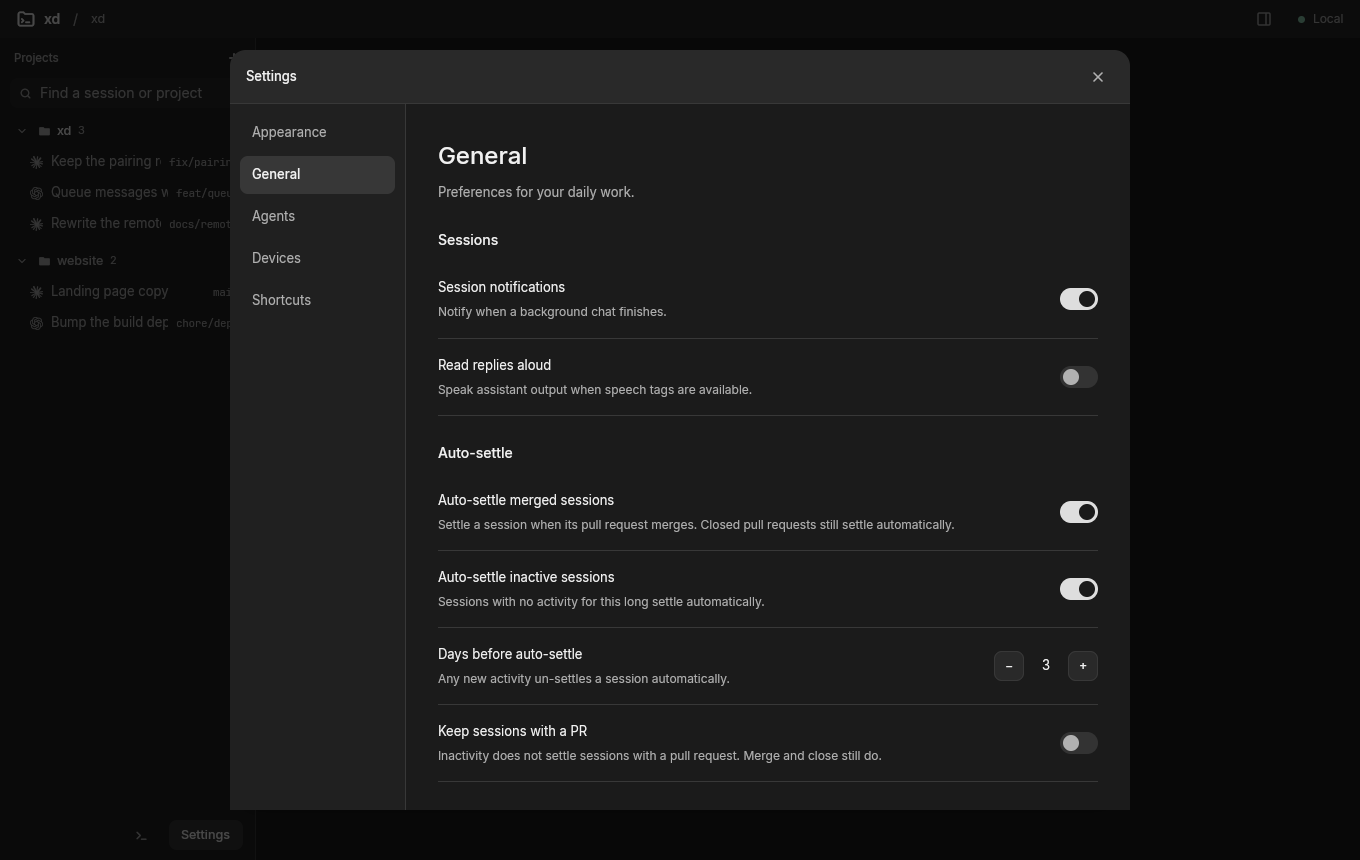
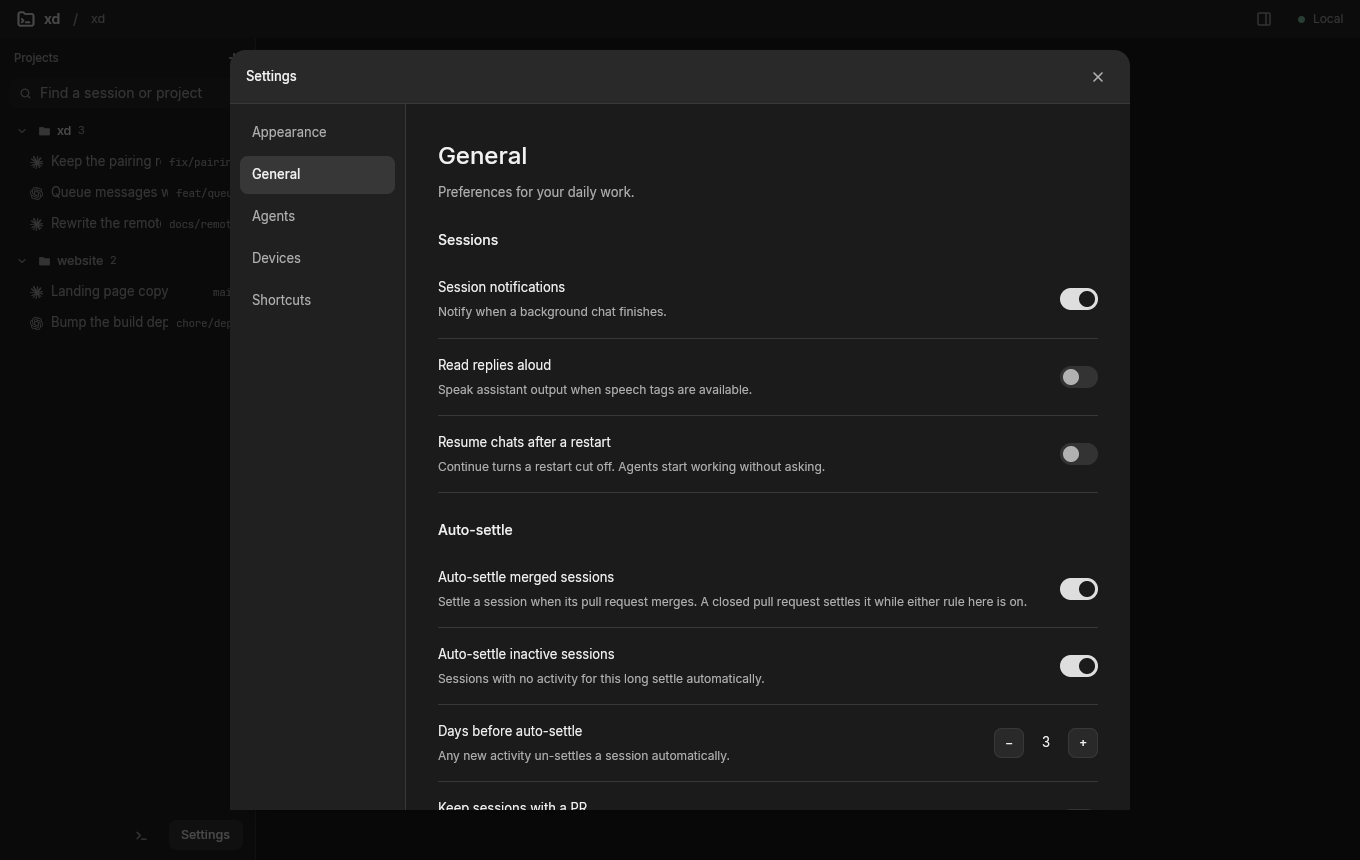
fix(host): judge a pull request by its branch and the user's own messages
The cached pull request was keyed by directory alone, so switching branches
could settle a session on the strength of the branch it left. A turn the host
resumed after a restart also counted as the user speaking, which made a pull
request that finished in the meantime stop counting.

With both rules off the host settles nothing, closed pull requests included, so
the setting's description now says so.

diff --git a/host/src/settlement.rs b/host/src/settlement.rs
@@ -35,7 +35,7 @@ pub struct AutoSettleSettings {
     /// Settle after this many days without activity; `None` turns that off.
     pub after_days: Option<i64>,
     /// Settle when the session's pull request merges. A closed pull request
-    /// settles the session either way.
+    /// settles the session either way, as long as any rule is on.
     pub on_merge: bool,
     /// Do not let inactivity settle a session that has a pull request.
     pub keep_pull_requests: bool,
@@ -221,7 +221,9 @@ impl AutoSettler {
     }
 }
 
-type PullRequestCache = HashMap<PathBuf, (Instant, Option<PullRequestSnapshot>)>;
+/// Answers by directory and branch: switching branches in a directory must not
+/// settle a session on the strength of the branch it left.
+type PullRequestCache = HashMap<(PathBuf, String), (Instant, Option<PullRequestSnapshot>)>;
 
 /// One pass of the rules. Returns how many sessions it settled.
 fn sweep(
@@ -274,12 +276,16 @@ fn pull_request_for(
     let Some(workdir) = &candidate.workdir else {
         return Some(None);
     };
-    if let Some((_, known)) = cache.get(workdir) {
+    let Some(branch) = store.checked_out_branch(workdir) else {
+        return Some(None);
+    };
+    let key = (workdir.clone(), branch);
+    if let Some((_, known)) = cache.get(&key) {
         return Some(*known);
     }
     match store.pull_request_snapshot(workdir) {
         Ok(pull_request) => {
-            cache.insert(workdir.clone(), (Instant::now(), pull_request));
+            cache.insert(key, (Instant::now(), pull_request));
             Some(pull_request)
         }
         Err(error) => {
@@ -860,9 +866,61 @@ mod tests {
                         0
                     );
                 }
-                let calls = std::fs::read_to_string(fixture.root.join("calls")).unwrap();
-                assert_eq!(calls.lines().count(), 1);
+                let calls = || {
+                    std::fs::read_to_string(fixture.root.join("calls"))
+                        .unwrap()
+                        .lines()
+                        .count()
+                };
+                assert_eq!(calls(), 1);
+
+                // Another branch in the same directory is another pull request.
+                let switched = std::process::Command::new("git")
+                    .args(["checkout", "-q", "-b", "other"])
+                    .current_dir(fixture.root.join("Workspaces/Project"))
+                    .status()
+                    .unwrap();
+                assert!(switched.success());
+                sweep(&fixture.store, &|_| false, &mut cache, now).unwrap();
+                assert_eq!(calls(), 2);
             },
+        );
+    }
+
+    #[test]
+    fn a_turn_the_host_resumes_is_not_the_user_coming_back() {
+        let fixture = Fixture::new();
+        fixture
+            .store
+            .prepare_send(&json!({"chat": fixture.chat, "text": "work"}))
+            .unwrap();
+        fixture.age(1);
+        fixture.sql("UPDATE chats SET host_working = 0");
+        let anchor = fixture.store.settlement_candidates().unwrap()[0].user_anchor_at;
+        let last_user_message: i64 = rusqlite::Connection::open(fixture.root.join("chats.db"))
+            .unwrap()
+            .query_row(
+                "SELECT MAX(id) FROM messages WHERE role = 'user'",
+                [],
+                |row| row.get(0),
+            )
+            .unwrap();
+        fixture
+            .store
+            .prepare_continuation(
+                &json!({"chat": fixture.chat, "text": "continue"}),
+                last_user_message,
+            )
+            .unwrap();
+        fixture.sql("UPDATE chats SET host_working = 0");
+        let candidate = fixture.store.settlement_candidates().unwrap().remove(0);
+        assert_eq!(
+            candidate.user_anchor_at, anchor,
+            "a pull request that finished meanwhile still counts"
+        );
+        assert!(
+            candidate.activity_at > anchor,
+            "but the turn is still activity, so inactivity counts from it"
         );
     }
 

diff --git a/host/src/storage.rs b/host/src/storage.rs
@@ -1581,6 +1581,18 @@ impl StateStore {
                 event,
             });
         }
+        // A continuation is the host's doing, not the user speaking again, so it
+        // keeps the time settling compares a finished pull request against.
+        let user_message_at = continues
+            .is_some()
+            .then(|| {
+                transaction.query_row(
+                    "SELECT last_user_message_at FROM chats WHERE id = ?",
+                    [chat_id],
+                    |row| row.get::<_, i64>(0),
+                )
+            })
+            .transpose()?;
         let turn = prepare_turn(
             &transaction,
             &self.workspace_root,
@@ -1588,6 +1600,12 @@ impl StateStore {
             &message.prompt,
             worktree_name,
         )?;
+        if let Some(user_message_at) = user_message_at {
+            transaction.execute(
+                "UPDATE chats SET last_user_message_at = ? WHERE id = ?",
+                params![user_message_at, chat_id],
+            )?;
+        }
         transaction.execute(
             if continues.is_some() {
                 "UPDATE chats SET host_working = 1, updated_at = ? WHERE id = ?"
@@ -3772,21 +3790,23 @@ impl StateStore {
         Ok(changed == 1)
     }
 
+    /// The branch checked out in `workdir`. `None` outside a repository and on
+    /// a detached HEAD, which cannot have a pull request of their own.
+    pub(crate) fn checked_out_branch(&self, workdir: &Path) -> Option<String> {
+        let current = normalize_existing_path(workdir);
+        list_git_worktrees(workdir)
+            .ok()?
+            .into_iter()
+            .find(|worktree| normalize_existing_path(&worktree.path) == current)?
+            .branch
+    }
+
     /// The pull request of the branch checked out in `workdir`, if it has one.
     /// An error means GitHub could not say, which is not the same as no.
     pub(crate) fn pull_request_snapshot(
         &self,
         workdir: &Path,
     ) -> Result<Option<PullRequestSnapshot>, StorageError> {
-        let Ok(worktrees) = list_git_worktrees(workdir) else {
-            return Ok(None);
-        };
-        let current = normalize_existing_path(workdir);
-        if !worktrees.iter().any(|worktree| {
-            normalize_existing_path(&worktree.path) == current && worktree.branch.is_some()
-        }) {
-            return Ok(None);
-        }
         let (status, stdout, stderr) = run_gh(
             workdir,
             &[

diff --git a/desktop/src/workspace_settings.rs b/desktop/src/workspace_settings.rs
@@ -259,7 +259,7 @@ impl XdDesktop {
             settings_row(
                 "workspace-settings-settle-merged",
                 "Auto-settle merged sessions",
-                "Settle a session when its pull request merges. Closed pull requests still settle automatically.",
+                "Settle a session when its pull request merges. A closed pull request settles it while either rule here is on.",
                 colors,
             )
             .cursor_pointer()

diff --git a/docs/protocol.md b/docs/protocol.md
@@ -434,7 +434,8 @@ connected:
 - `after_days`, from 1 to 90, settles a session after that many days without
   activity. Here `null` is meaningful: it turns this rule off.
 - `on_merge` settles a session when the pull request of its checked-out branch
-  merges. A closed pull request settles it regardless.
+  merges. A closed pull request settles it whenever either of these two rules is
+  on; with both off the host settles nothing by itself.
 - `keep_pull_requests` stops inactivity from settling a session that has a pull
   request. Merging and closing still do.
 
